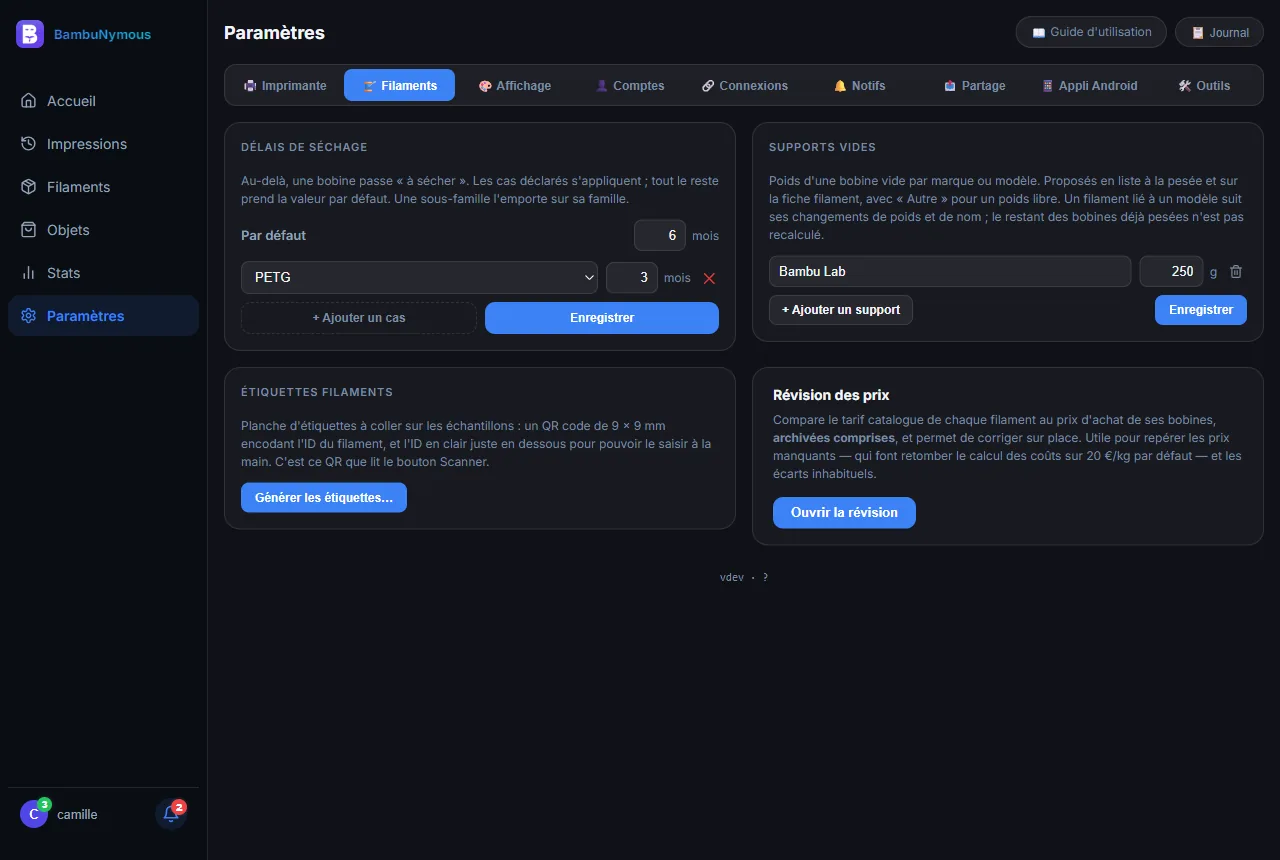
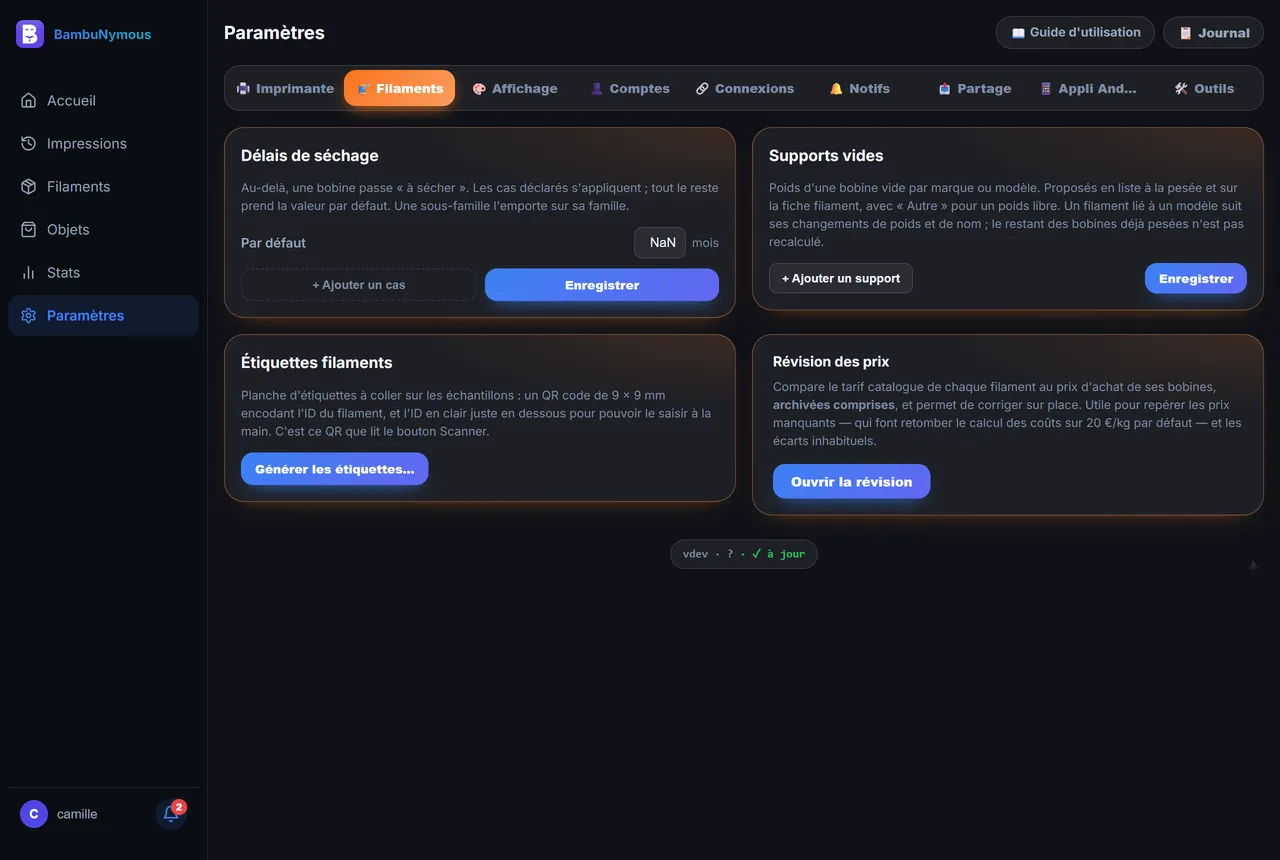
Paramètres : nouvel habillage (onglets en couleur, cartes teintées, champs et boutons arrondis, thème en pastilles)
- chaque onglet a sa couleur ; l'onglet ouvert en est rempli et ses cartes en sont teintées
- titres de carte lisibles, libellés et champs plus grands, boutons principaux en dégradé
- Thème : deux pastilles Clair / Sombre ; Enregistrer, Guide et Journal restylés ; version en pastille
- guide et captures mis à jour

diff --git a/frontend/src/pages/Settings.jsx b/frontend/src/pages/Settings.jsx
@@ -27,13 +27,12 @@ import { useTrackDetail } from "../utils/track";
 import { egg, tapper, useEggFound } from "../eggs";
 
 const inp = {
-  width:"100%", background:"var(--surface2)", border:"1px solid var(--border)",
-  borderRadius:10, padding:"8px 12px", fontSize:14, color:"var(--text)",
+  width:"100%", background:"var(--surface)", border:"1px solid var(--border)",
+  borderRadius:12, padding:"10px 12px", fontSize:14, fontWeight:600, color:"var(--text)",
   outline:"none", transition:"border-color 0.15s", boxSizing:"border-box",
 };
 const lbl = {
-  display:"block", fontSize:11, color:"var(--muted)", marginBottom:6,
-  textTransform:"uppercase", letterSpacing:"0.05em",
+  display:"block", fontSize:12, fontWeight:800, color:"var(--muted)", marginBottom:6,
 };
 
 // Le backend renvoie des datetime UTC *naifs* ("2026-07-18 21:24:33.123456").
@@ -99,8 +98,7 @@ function HomeDisplayCard() {
   );
 }
 const cardTitle = {
-  fontSize:11, fontWeight:600, color:"var(--muted)", textTransform:"uppercase",
-  letterSpacing:"0.08em", marginBottom:16, display:"flex", alignItems:"center", gap:6,
+  fontSize:15.5, fontWeight:900, color:"var(--text)", marginBottom:12, display:"flex", alignItems:"center", gap:8,
 };
 
 // La disposition des AMS se regle dans la tuile AMS de l'accueil (son engrenage).
@@ -1759,15 +1757,15 @@ function LabelsCard({ card, cardTitle }) {
 // Un onglet par sujet : l'imprimante, les filaments, l'affichage, les comptes
 // (et services connectes), les notifications, puis les outils de maintenance.
 const SET_TABS = [
-  { id:"printer",  label:"🖨 Imprimante", admin:true  },
-  { id:"filament", label:"🧵 Filaments",  admin:true  },
-  { id:"display",  label:"🎨 Affichage",  admin:false },
-  { id:"accounts", label:"👤 Comptes",    admin:false },
-  { id:"links",    label:"🔗 Connexions", admin:true  },   // MakerWorld, Telegram, messages types : administrateur
-  { id:"notify",   label:"🔔 Notifs",     admin:false },
-  { id:"share",    label:"📤 Partage",    admin:true  },
-  { id:"android",  label:"📱 Appli Android", admin:false },
-  { id:"tools",    label:"🛠 Outils",     admin:true  },
+  { id:"printer",  label:"🖨 Imprimante", admin:true,  c:"#3B82F6" },
+  { id:"filament", label:"🧵 Filaments",  admin:true,  c:"#F97316" },
+  { id:"display",  label:"🎨 Affichage",  admin:false, c:"#EC4899" },
+  { id:"accounts", label:"👤 Comptes",    admin:false, c:"#8B5CF6" },
+  { id:"links",    label:"🔗 Connexions", admin:true,  c:"#06B6D4" },   // MakerWorld, Telegram, messages types : administrateur
+  { id:"notify",   label:"🔔 Notifs",     admin:false, c:"#F59E0B" },
+  { id:"share",    label:"📤 Partage",    admin:true,  c:"#0EA5E9" },
+  { id:"android",  label:"📱 Appli Android", admin:false, c:"#22C55E" },
+  { id:"tools",    label:"🛠 Outils",     admin:true,  c:"#64748B" },
 ];
 
 export default function Settings() {
@@ -1866,55 +1864,52 @@ export default function Settings() {
     </div>
   );
 
+  const tc = (SET_TABS.find(t => t.id === tab) || SET_TABS[0]).c;
+  const pill = { padding:"6px 13px", borderRadius:20, border:"1px solid var(--border)", background:"var(--surface2)", cursor:"pointer",
+    display:"flex", alignItems:"center", gap:6, color:"var(--text2)", fontSize:12.5, fontWeight:800, textDecoration:"none" };
   return (
-    <div className="page-wide" style={{ "--page-max":"640px" }}>
+    <div className="page-wide set-page" style={{ "--page-max":"640px", "--set-c": tc }}>
+      {/* Toutes les cartes de la page (y compris celles des reglages fournis par d'autres composants) prennent
+          la couleur de l'onglet ; les boutons principaux bleus passent en degrade. */}
+      <style>{SET_CSS}</style>
       {/* Mobile : le bouton part dans le header (une ligne de gagnee).
           Desktop : le header mobile n'existe pas, on le garde dans le flux. */}
       <HeaderAction>
         {/* le guide d'utilisation (une page de l'appli) */}
-        <a href="/guide" onClick={e => { e.preventDefault(); navigate("/guide"); }} aria-label="Guide d'utilisation" title="Guide d'utilisation"
-          style={{ padding:"5px 10px", borderRadius:20, border:"1px solid var(--border)",
-            background:"var(--surface2)", display:"flex", alignItems:"center",
-            color:"var(--muted)", fontSize:12, textDecoration:"none" }}>
+        <a href="/guide" onClick={e => { e.preventDefault(); navigate("/guide"); }} aria-label="Guide d'utilisation" data-tip="Guide d'utilisation"
+          style={{ ...pill, padding:"5px 10px" }}>
           📖
         </a>
-        <AdminOnly><button onClick={() => navigate("/logs")} aria-label="Journal"
-          style={{ padding:"5px 12px", borderRadius:20, border:"1px solid var(--border)",
-            background:"var(--surface2)", cursor:"pointer", display:"flex",
-            alignItems:"center", gap:5, color:"var(--muted)", fontSize:12 }}>
+        <AdminOnly><button onClick={() => navigate("/logs")} aria-label="Journal" style={{ ...pill, padding:"5px 12px" }}>
           📋 Journal
         </button></AdminOnly>
       </HeaderAction>
 
       <div className="hidden-mobile" style={{ display:"none", alignItems:"center", justifyContent:"flex-end" }}>
         <h1 className="page-title" style={{ fontSize:18, fontWeight:700, color:"var(--text)", margin:0, marginRight:"auto" }}>Paramètres</h1>
-        <a href="/guide" onClick={e => { e.preventDefault(); navigate("/guide"); }} style={{ padding:"6px 14px", borderRadius:20, border:"1px solid var(--border)",
-          background:"var(--surface2)", display:"flex", alignItems:"center", gap:6, marginRight:8,
-          color:"var(--muted)", fontSize:12, textDecoration:"none" }}>
+        <a href="/guide" onClick={e => { e.preventDefault(); navigate("/guide"); }} style={{ ...pill, marginRight:8 }}>
           📖 Guide d'utilisation
         </a>
-        <AdminOnly><button onClick={() => navigate("/logs")}
-          style={{ padding:"6px 14px", borderRadius:20, border:"1px solid var(--border)",
-            background:"var(--surface2)", cursor:"pointer", display:"flex", alignItems:"center", gap:6,
-            color:"var(--muted)", fontSize:12 }}>
+        <AdminOnly><button onClick={() => navigate("/logs")} style={pill}>
           📋 Journal
         </button></AdminOnly>
       </div>
 
       {/* Meme composant visuel que Filaments / Historique / Objets. */}
       {/* Six onglets : une ligne sur ordinateur, deux lignes de trois sur telephone. */}
-      <div style={{ display:"grid", gridTemplateColumns:"repeat(auto-fit, minmax(100px, 1fr))", gap:4,
-        background:"var(--surface2)", borderRadius:12, padding:4, border:"1px solid var(--border)" }}>
-        {tabs.map(t => (
+      <div style={{ display:"grid", gridTemplateColumns:"repeat(auto-fit, minmax(118px, 1fr))", gap:4,
+        background:"var(--surface2)", borderRadius:16, padding:4, border:"1px solid var(--border)" }}>
+        {tabs.map(t => { const on = tab === t.id;
+          return (
           <button key={t.id} onClick={()=>setTab(t.id)} style={{
-            minWidth:0, padding:"8px 4px", borderRadius:8, fontSize:12, fontWeight:600,
+            minWidth:0, padding:"9px 4px", borderRadius:12, fontSize:12.5, fontWeight:800,
             whiteSpace:"nowrap", overflow:"hidden", textOverflow:"ellipsis",
             cursor:"pointer", border:"none", transition:"all 0.15s",
-            background: tab===t.id ? "#3b82f6" : "transparent",
-            color: tab===t.id ? "white" : "var(--muted)" }}>
+            background: on ? `linear-gradient(135deg, ${t.c}, color-mix(in srgb, ${t.c} 70%, #ffffff))` : "transparent",
+            boxShadow: on ? `0 6px 16px -6px ${t.c}` : "none",
+            color: on ? "white" : "var(--muted)" }}>
             {t.label}
-          </button>
-        ))}
+          </button>); })}
       </div>
 
       {/* ── Affichage ─────────────────────────────────────────────── */}
@@ -1922,14 +1917,15 @@ export default function Settings() {
       {tab === "display" && (<div className="wide-2">
       <div className="card" style={card}>
         <div style={cardTitle}>Apparence</div>
-        <div style={{ display:"flex", alignItems:"center", justifyContent:"space-between" }}>
-          <span style={{ fontSize:14, color:"var(--text2)" }}>Thème</span>
-          <button type="button" onClick={toggle}
-            style={{ display:"flex", alignItems:"center", gap:8, padding:"8px 16px",
-            borderRadius:20, border:"1px solid var(--border)", background:"var(--surface2)",
-            color:"var(--text)", fontSize:13, cursor:"pointer" }}>
-            {theme === "dark" ? <><Moon size={14}/> Sombre</> : <><Sun size={14}/> Clair</>}
-          </button>
+        <div style={{ display:"flex", alignItems:"center", justifyContent:"space-between", gap:12 }}>
+          <span style={{ fontSize:14, fontWeight:700, color:"var(--text2)" }}>Thème</span>
+          <div role="radiogroup" aria-label="Thème" style={{ display:"flex", gap:3, padding:3, borderRadius:14, background:"var(--surface)", border:"1px solid var(--border)" }}>
+            {[["light", <Sun size={14}/>, "Clair", "#F59E0B"], ["dark", <Moon size={14}/>, "Sombre", "#6366F1"]].map(([v, ic, l, c]) => { const on = (theme === "dark") === (v === "dark");
+              return <button key={v} type="button" role="radio" aria-checked={on} onClick={() => { if (!on) toggle(); }}
+                style={{ display:"flex", alignItems:"center", gap:6, padding:"7px 13px", borderRadius:11, border:"none", cursor:"pointer",
+                  fontSize:13, fontWeight:800, color: on ? "#fff" : "var(--muted)",
+                  background: on ? `linear-gradient(135deg, ${c}, color-mix(in srgb, ${c} 65%, #ffffff))` : "transparent" }}>{ic} {l}</button>; })}
+          </div>
         </div>
       </div>
       <HomeDisplayCard/>
@@ -1994,12 +1990,10 @@ export default function Settings() {
 
 
         <button type="submit" disabled={saving}
-          style={{ display:"inline-flex", alignItems:"center", gap:8,
-            background:"#3b82f6", color:"white", border:"none",
-            padding:"10px 20px", borderRadius:12, fontSize:14, fontWeight:500,
-            cursor:saving?"not-allowed":"pointer", opacity:saving?0.6:1 }}
-          onMouseEnter={e => { if(!saving) e.currentTarget.style.background="#2563eb"; }}
-          onMouseLeave={e => e.currentTarget.style.background="#3b82f6"}>
+          style={{ display:"inline-flex", alignItems:"center", justifyContent:"center", gap:8,
+            background:"linear-gradient(135deg, #3B82F6, #6366F1)", color:"white", border:"none",
+            padding:"12px 20px", borderRadius:14, fontSize:14.5, fontWeight:800, boxShadow:"0 8px 18px -10px #3B82F6",
+            cursor:saving?"not-allowed":"pointer", opacity:saving?0.6:1 }}>
           {saving ? <RefreshCw size={15} style={{ animation:"spin 1s linear infinite" }} /> : <Save size={15} />}
           {saved ? "Sauvegardé ✓" : "Sauvegarder"}
         </button>
@@ -2065,6 +2059,20 @@ export default function Settings() {
   );
 }
 
+// L'habillage commun des cartes de la page : la couleur de l'onglet (--set-c) teinte chaque carte, une carte
+// dans une carte reste sobre ; les champs s'arrondissent ; un bouton principal bleu (ecrit en dur dans les
+// reglages des autres composants) prend le degrade des autres pages.
+const SET_CSS = `
+.set-page .card { border-radius: 20px !important; border: 1px solid color-mix(in srgb, var(--set-c) 24%, var(--border)) !important;
+  background: radial-gradient(90% 60% at 100% 0%, color-mix(in srgb, var(--set-c) 13%, transparent), transparent 70%), var(--surface2) !important;
+  box-shadow: 0 10px 24px -20px var(--set-c); }
+.set-page .card .card { background: var(--surface) !important; box-shadow: none; border-color: var(--border) !important; border-radius: 16px !important; }
+.set-page input:not([type=checkbox]):not([type=radio]):not([type=range]):not([type=file]), .set-page select, .set-page textarea { border-radius: 12px; }
+.set-page button[style*="background: rgb(59, 130, 246)"], .set-page button[style*="background: rgb(59,130,246)"] {
+  background: linear-gradient(135deg, #3B82F6, #6366F1) !important; border-color: transparent !important; box-shadow: 0 8px 18px -10px #3B82F6;
+  border-radius: 12px !important; font-weight: 800 !important; }
+`;
+
 // Version en service, comparee a master sur GitHub : « a jour », ou les
 // nouveautes en attente (depliables).
 function VersionLine({ version }) {
@@ -2079,7 +2087,8 @@ function VersionLine({ version }) {
       {/* un tout petit bateau, presque invisible, au bout de la page */}
       {!microFound && <span data-egg="micro_benchy" aria-hidden="true" style={{ position:"absolute", right:4, bottom:-2, fontSize:9, opacity:.16, cursor:"default", userSelect:"none" }}>⛵</span>}
       <Cachettes spot="settings" side="left"/>
-      <p style={{ fontSize:11, color:"var(--muted)", fontFamily:"monospace", margin:0 }}>
+      <p style={{ display:"inline-block", fontSize:11.5, fontWeight:700, color:"var(--muted)", fontFamily:"monospace", margin:0, padding:"5px 12px",
+        borderRadius:20, background:"var(--surface2)", border:"1px solid var(--border)" }}>
         <span onClick={devTap} style={{ cursor:"default", userSelect:"none" }}>v{version.commit?.slice(0,8) || "dev"}</span> · {version.build_date?.slice(0,10) || "?"}
         {chk && !chk.dev && !chk.error && (n
           ? <> · <button onClick={() => setOpen(o => !o)} style={{ background:"none", border:"none", padding:0, cursor:"pointer",

diff --git a/backend/guide/pages/parametres.html b/backend/guide/pages/parametres.html
@@ -3,7 +3,7 @@
 
 <section id="parametres-structure">
   <h2>Organisation de la page</h2>
-  <p>Les réglages sont rangés en <b>onglets</b> (une ligne sur ordinateur, plusieurs sur téléphone ; l'onglet ouvert est en bleu). Sur ordinateur, les cartes de chaque onglet se rangent sur deux colonnes.</p>
+  <p>Les réglages sont rangés en <b>onglets</b> (une ligne sur ordinateur, plusieurs sur téléphone). Chaque onglet a sa couleur : l'onglet ouvert en est rempli, et toutes ses cartes en sont teintées. Sur ordinateur, les cartes de chaque onglet se rangent sur deux colonnes.</p>
   <table>
     <tr><th>Onglet</th><th>Contenu</th><th>Qui le voit</th></tr>
     <tr><td><a href="#parametres-printer">🖨 Imprimante</a></td><td>Connexion à l'imprimante, tarif électrique</td><td><span class="admin">admin</span></td></tr>
@@ -104,7 +104,7 @@
   <h2>🎨 Affichage</h2>
   <figure><img src="img/parametres-affichage.webp" alt="Onglet Affichage : apparence, accueil, disposition AMS, points d'attention"><figcaption>L'onglet Affichage d'un administrateur.</figcaption></figure>
   <dl class="opts">
-    <dt>Apparence → Thème</dt><dd>Le bouton bascule entre <span class="ui">🌙 Sombre</span> (par défaut) et <span class="ui">☀ Clair</span>. Le choix est retenu sur ce navigateur, pas sur ton compte.</dd>
+    <dt>Apparence → Thème</dt><dd>Deux pastilles : <span class="ui">☀ Clair</span> et <span class="ui">🌙 Sombre</span> (par défaut) ; celle choisie est remplie. Le choix est retenu sur ce navigateur, pas sur ton compte.</dd>
     <dt>Accueil → Bouton « Personnaliser » dans le bandeau</dt><dd>Activé par défaut. Une fois ton accueil réglé, tu peux masquer ce bouton ; la personnalisation reste accessible ici par <span class="ui">Personnaliser l'accueil</span>. Retenu sur cet appareil. Voir <a href="#accueil-personnaliser">personnaliser l'accueil</a>.</dd>
     <dt>Disposition AMS sur l'accueil <span class="admin">admin</span></dt><dd>L'organisation des AMS se règle dans la tuile AMS de l'accueil. <span class="ui">Régler la tuile AMS</span> ouvre directement l'accueil en personnalisation sur cette tuile. Voir <a href="#tuiles">les tuiles</a>.</dd>
     <dt>Points d'attention <span class="admin">admin</span></dt><dd><span class="ui">Organiser les catégories…</span> : choisis l'ordre des catégories de points d'attention sur l'accueil et masque celles qui ne t'intéressent pas.</dd>
